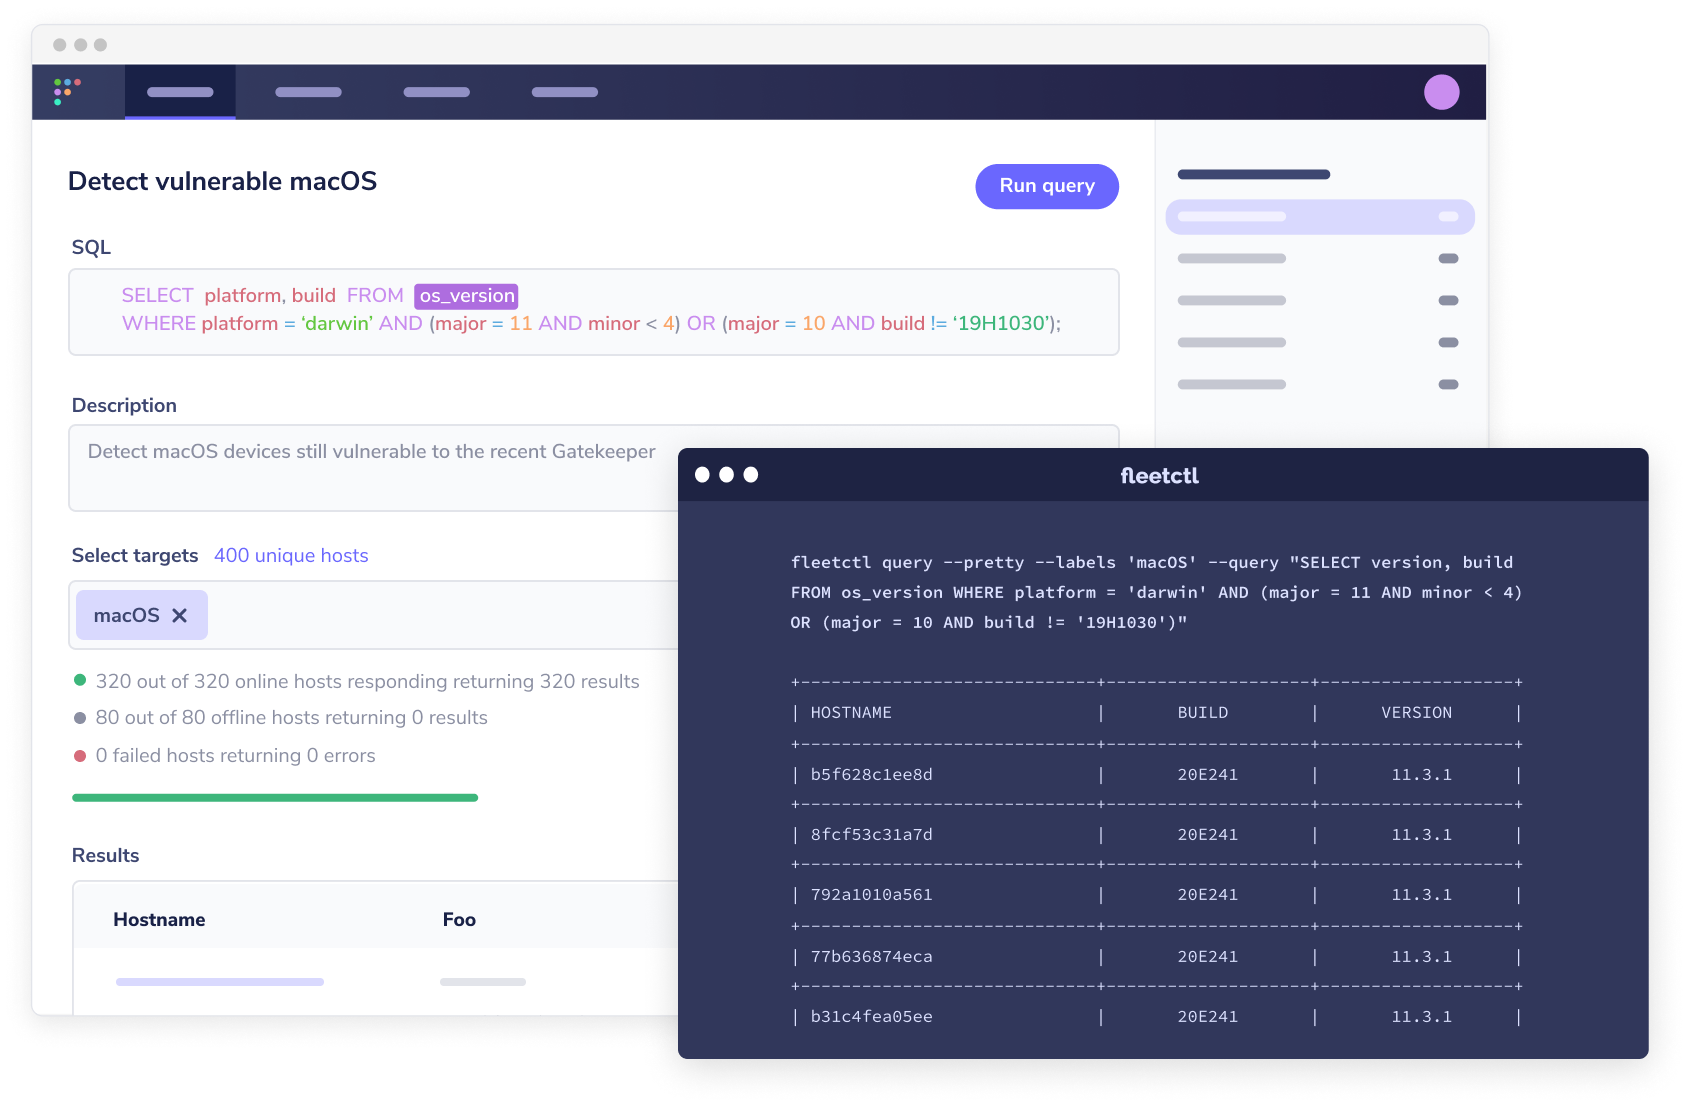
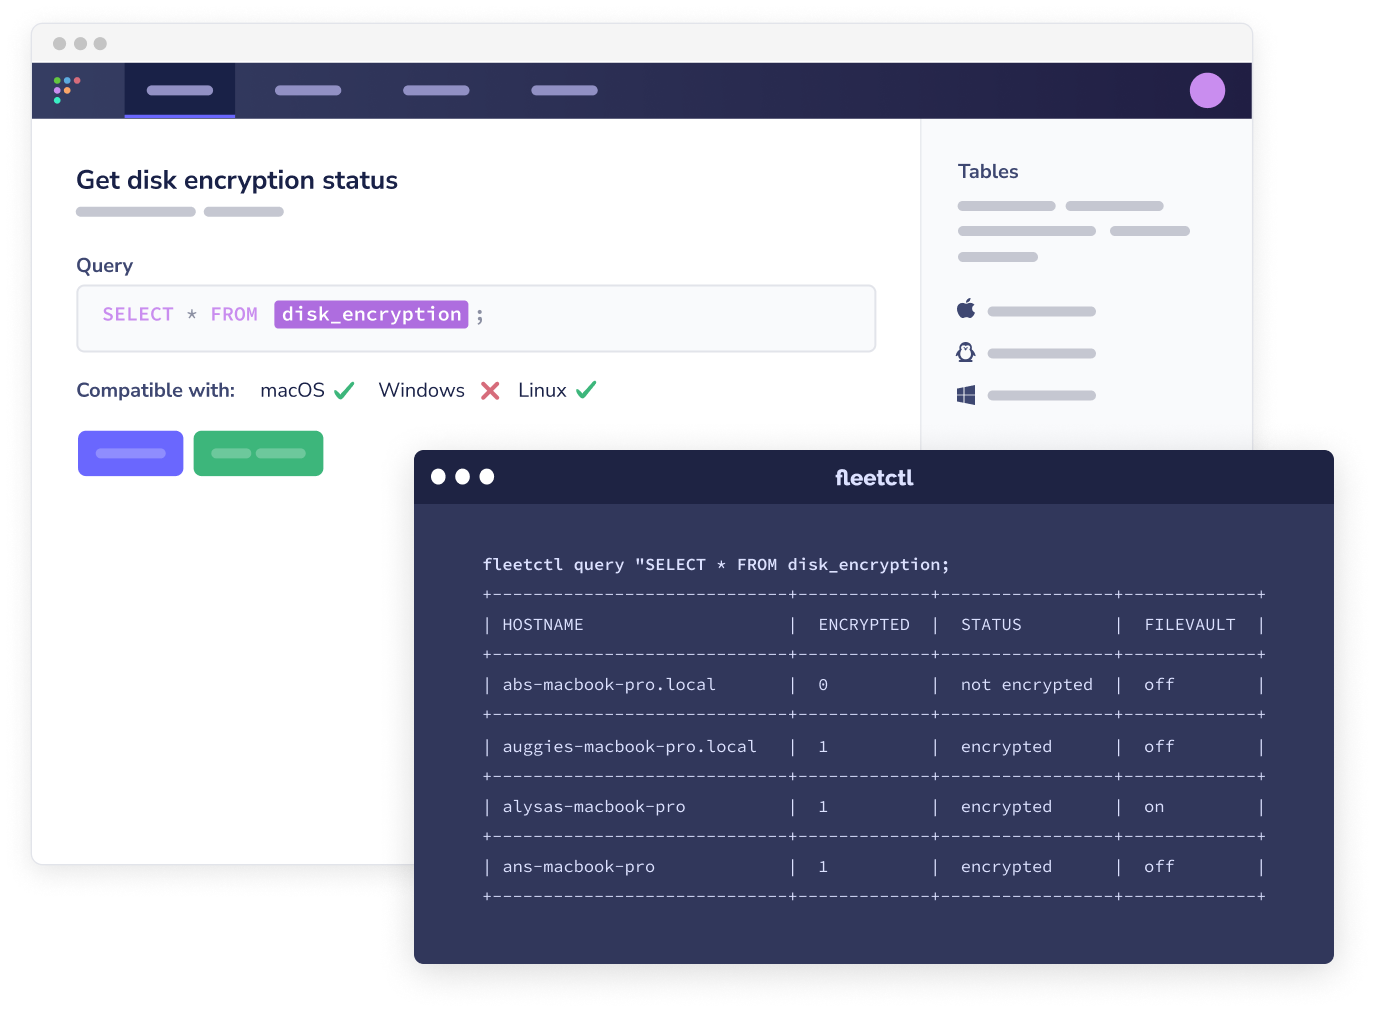
website-patch
• I updated main image on the homepage and /platform to reflect the current Fleet UI.

• I made some style tweaks to the live Q&A input form.

diff --git a/website/assets/styles/pages/homepage.less b/website/assets/styles/pages/homepage.less
@@ -115,7 +115,7 @@
   [purpose='demo-cta'] {
     padding: 16px;
     background: rgba(25, 33, 71, 0.5);
-    border-radius: 12px;
+    border-radius: 16px;
     [purpose='demo-cta-text' ] {
       white-space: nowrap;
       p {
@@ -127,7 +127,9 @@
     }
     .form-control {
       height: 44px;
-      padding: 4px 4px 4px 16px;
+      padding: 4px 4px 4px 12px;
+      border: none;
+      border-radius: 6px;
       input {
         border: none;
         height: 36px;
@@ -170,8 +172,8 @@
     [purpose='register-button'] {
       padding: 8px 16px;
       font-size: 14px;
-      line-height: 19.1px;
-      height: 35px;
+      line-height: 20px;
+      height: 36px;
       border-radius: 4px;
       min-width: 87px;
     }

diff --git a/website/assets/styles/pages/platform.less b/website/assets/styles/pages/platform.less
@@ -189,7 +189,7 @@
           width: 850px;
           position: relative;
           right: 0px;
-          top: 0px;
+          top: -60px;
           z-index: 1;
           bottom: unset;
         }
@@ -210,7 +210,7 @@
           width: 850px;
           position: relative;
           right: 0;
-          top: 0;
+          top: -60px;
           z-index: 1;
         }
       }
